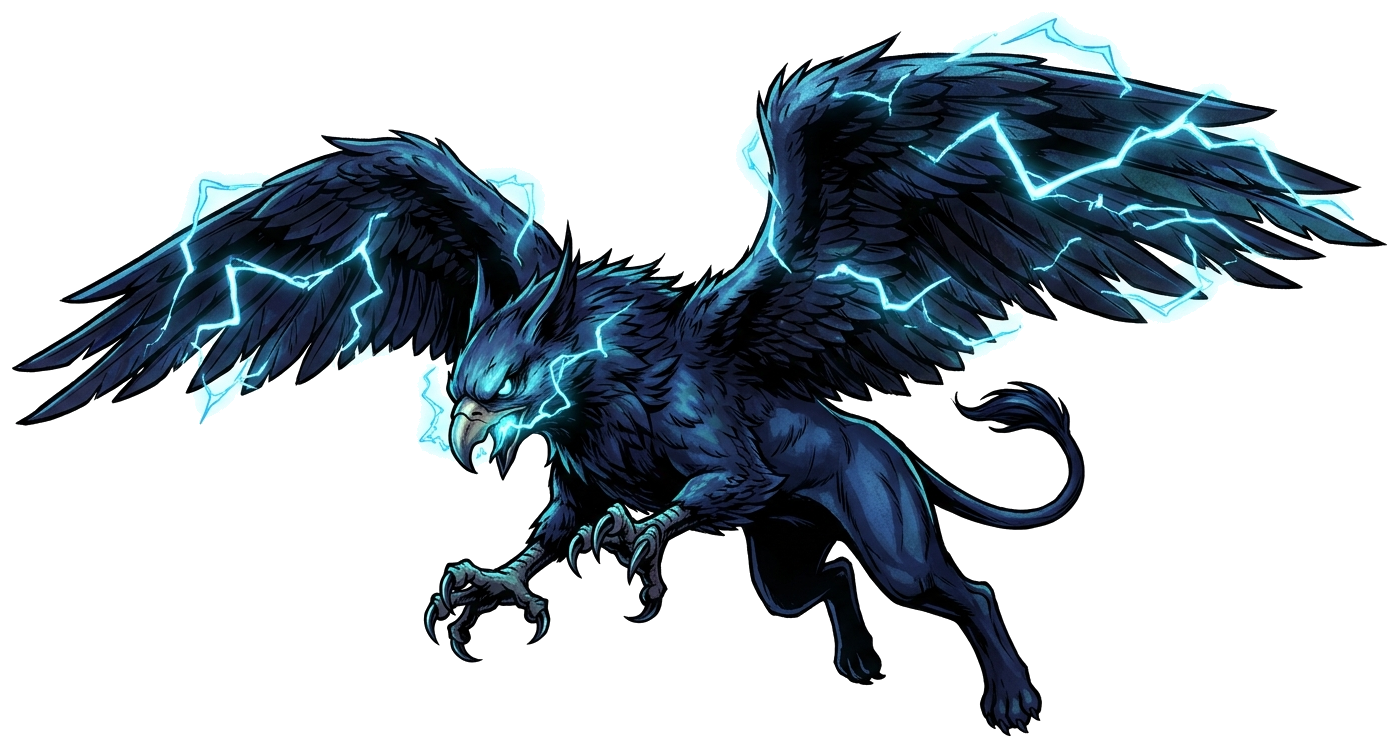
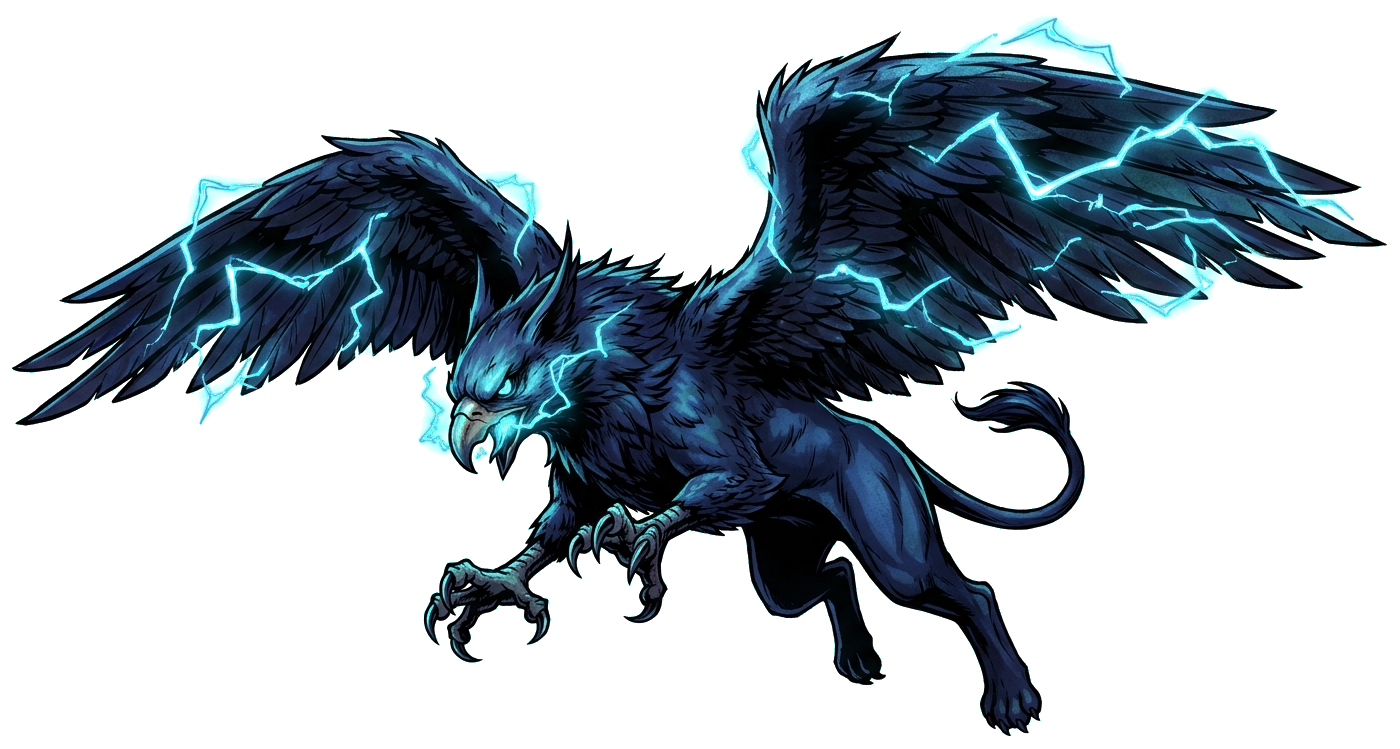
art(blue_61_quimera_tempestade): remove white pockets and unmultiply lightning halo + bump cache v=32

diff --git a/src/components/CardView.tsx b/src/components/CardView.tsx
@@ -363,7 +363,7 @@ export const CardView: React.FC<CardViewProps> = ({
           <div className={`mtg-token-art aura-${displayCard.domain}`}>
             {!imgError && displayCard.imagePath ? (
               <img
-                src={`${displayCard.imagePath}?v=31`}
+                src={`${displayCard.imagePath}?v=32`}
                 alt={displayName}
                 className="mtg-token-img"
                 onError={() => setImgError(true)}
@@ -518,7 +518,7 @@ export const CardView: React.FC<CardViewProps> = ({
 
           {!imgError && displayCard.imagePath ? (
             <img
-              src={`${displayCard.imagePath}?v=31`}
+              src={`${displayCard.imagePath}?v=32`}
               alt={displayName}
               className="card-cutout-img"
               onError={() => setImgError(true)}
